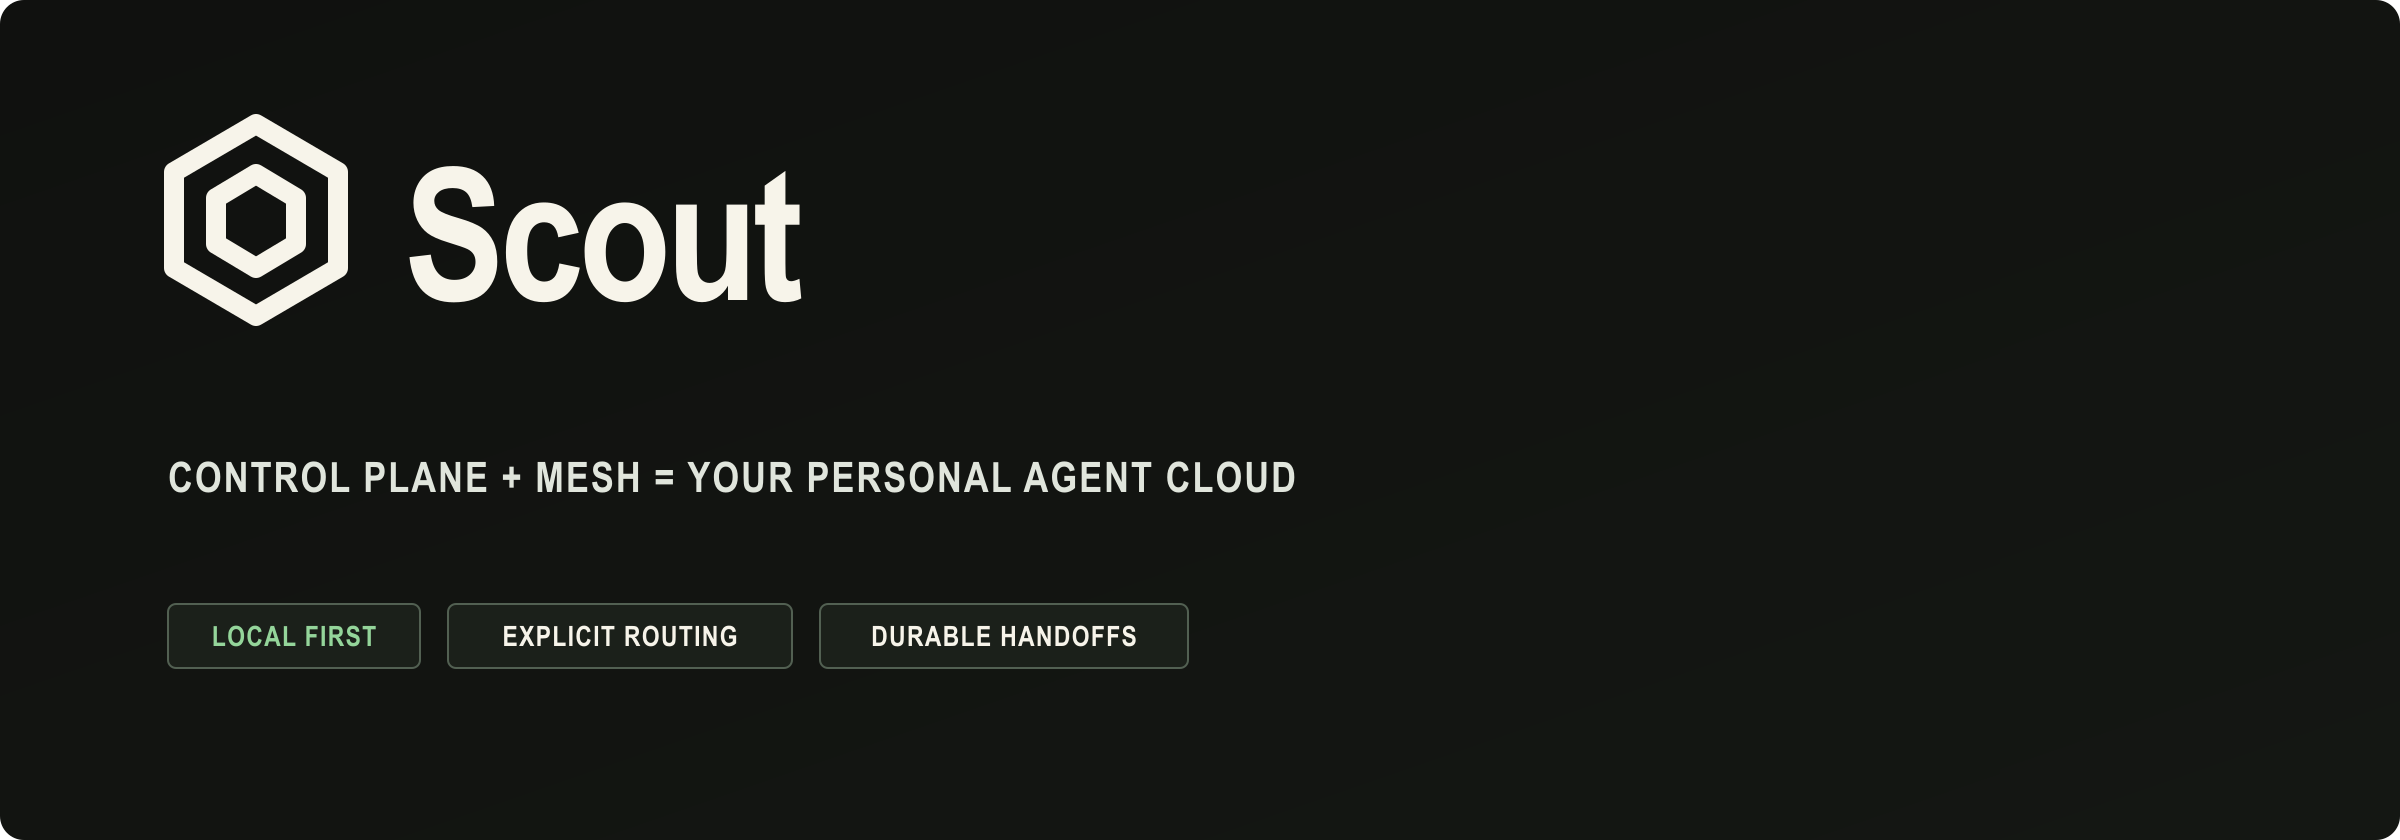
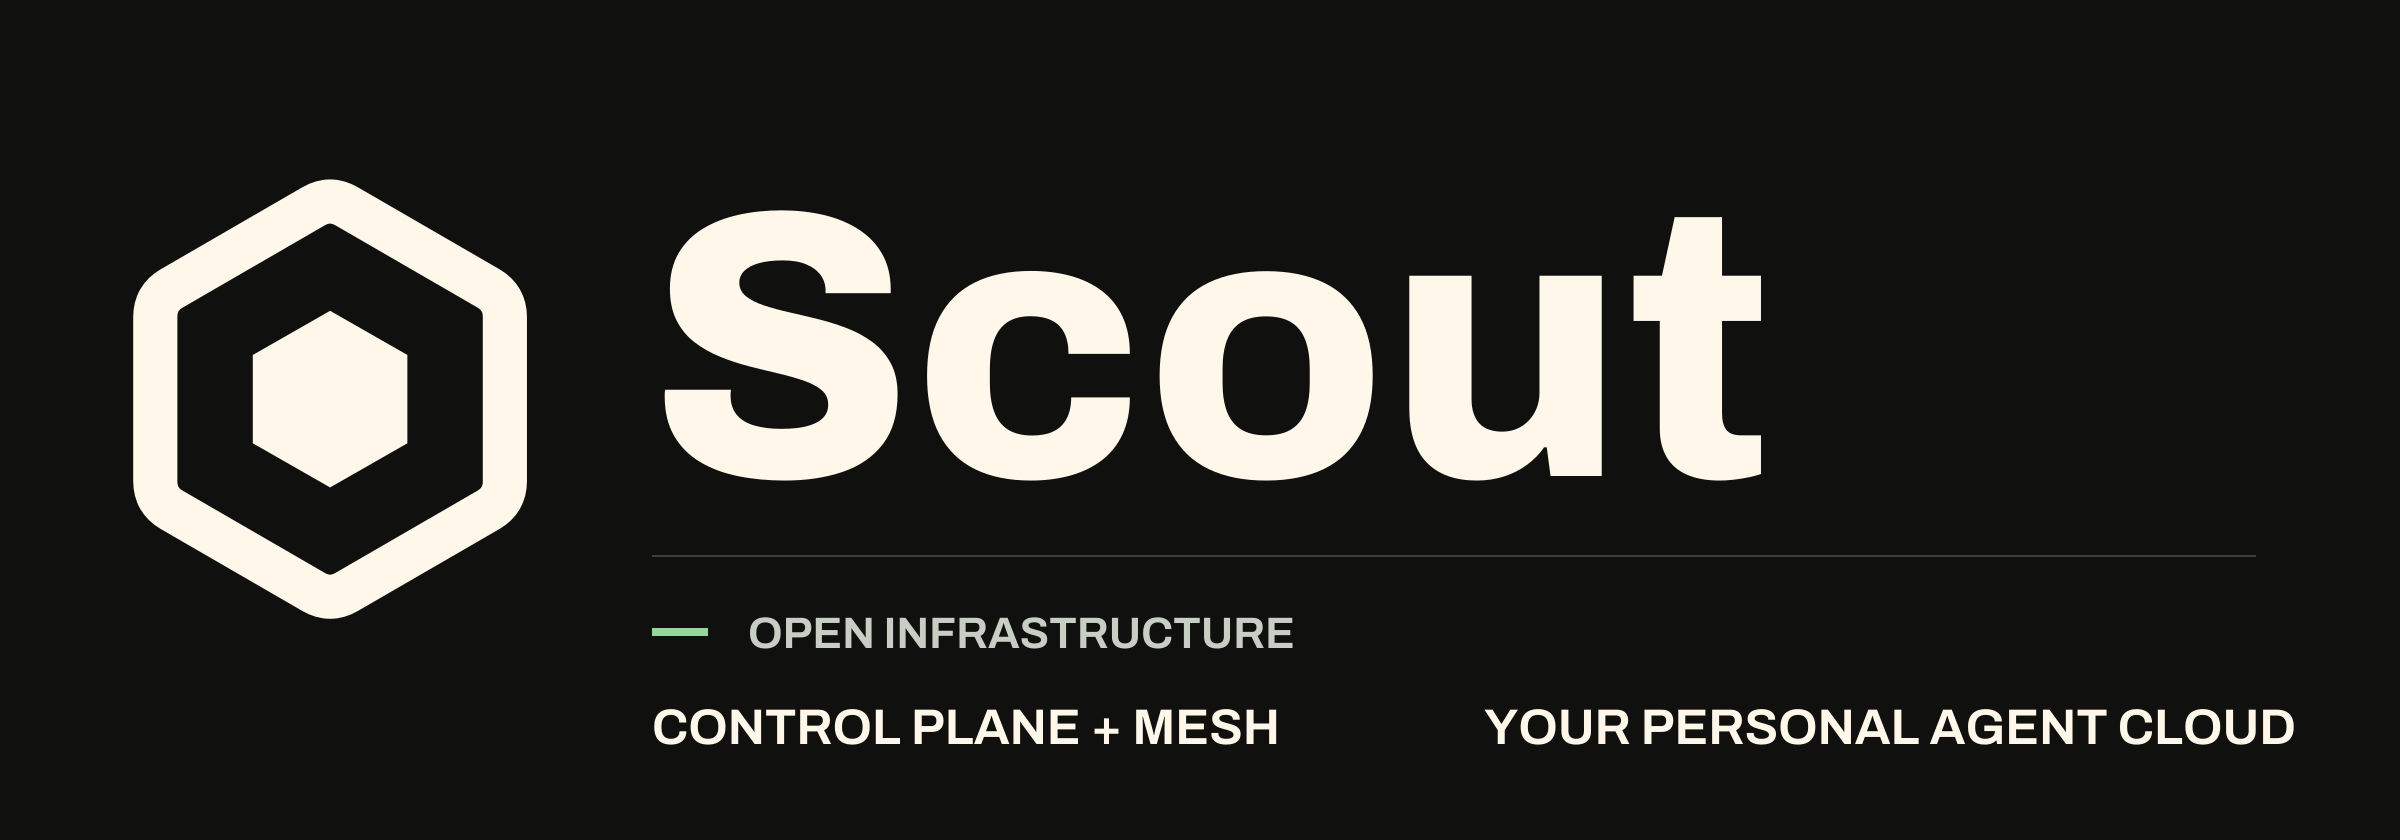
🎨 Align organization identity with Scout

diff --git a/profile/README.md b/profile/README.md
@@ -1,5 +1,5 @@
 <p align="center">
-  <img src="./assets/org-hero.svg" alt="Scout — open infrastructure for your personal agent cloud" width="100%" />
+  <img src="./assets/org-hero.svg" alt="Scout — one place to see, steer, and remember your agents" width="100%" />
 </p>
 
 <p align="center">
@@ -8,9 +8,9 @@
 </p>
 
 <p align="center">
-  <a href="https://github.com/oscout/scout"><img alt="Scout" src="https://img.shields.io/badge/explore-Scout-94d59a?style=flat-square&labelColor=171a16" /></a>
-  <a href="https://www.npmjs.com/package/@openscout/scout"><img alt="npm version" src="https://img.shields.io/npm/v/@openscout/scout?style=flat-square&label=npm&color=f7f4ea&labelColor=171a16" /></a>
-  <a href="https://oscout.net"><img alt="oscout.net" src="https://img.shields.io/badge/home-oscout.net-dde6d8?style=flat-square&labelColor=171a16" /></a>
+  <a href="https://github.com/oscout/scout"><img alt="Scout" src="https://img.shields.io/badge/explore-Scout-fff7ea?style=flat-square&labelColor=10110f" /></a>
+  <a href="https://www.npmjs.com/package/@openscout/scout"><img alt="npm version" src="https://img.shields.io/npm/v/@openscout/scout?style=flat-square&label=npm&color=fff7ea&labelColor=10110f" /></a>
+  <a href="https://oscout.net"><img alt="oscout.net" src="https://img.shields.io/badge/home-oscout.net-fff7ea?style=flat-square&labelColor=10110f" /></a>
 </p>
 
 ---
